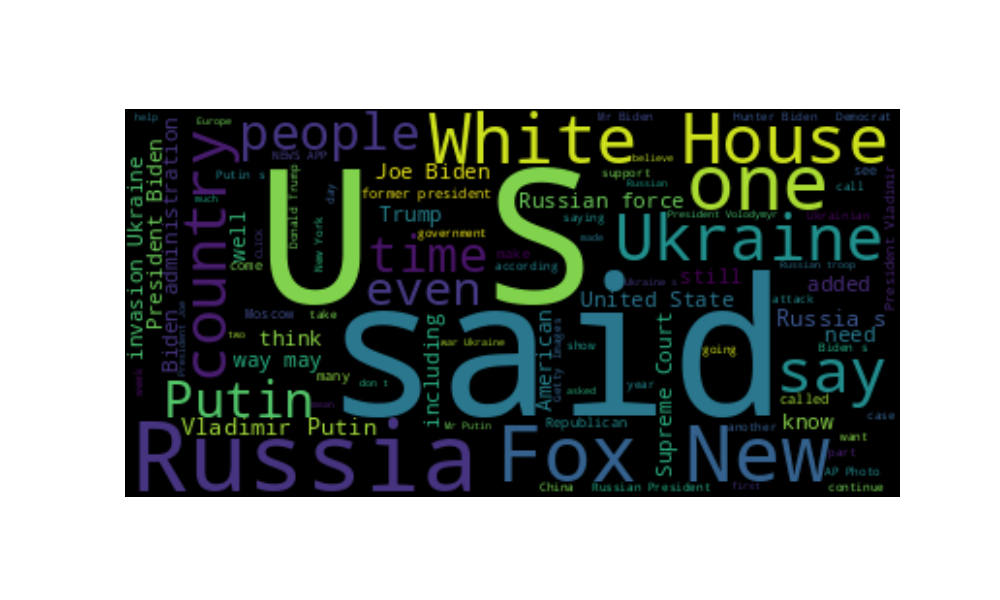
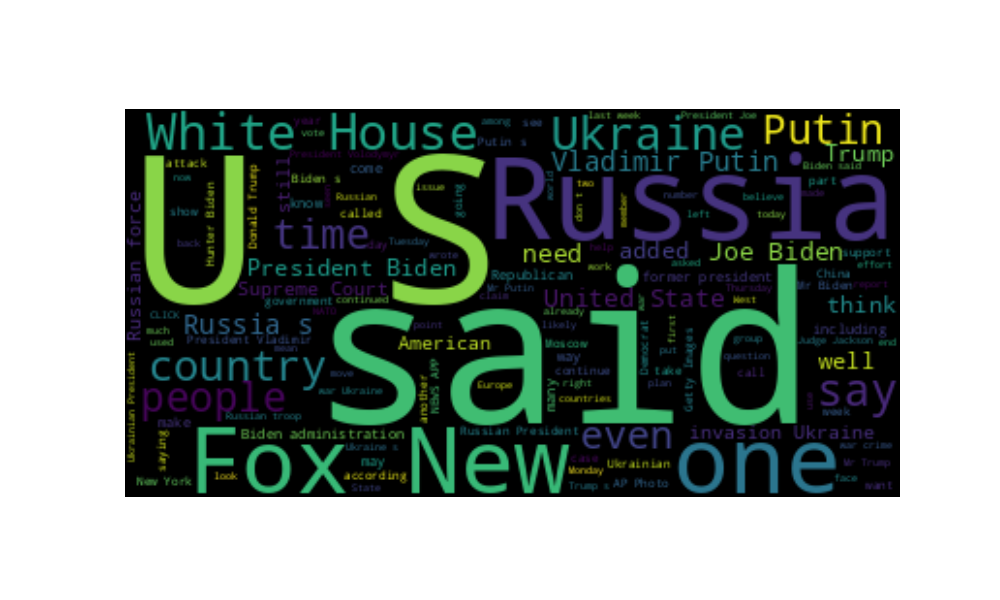
Added code for reddit

Changed region(s): [[0.124, 0.18, 0.899, 0.84]]

diff --git a/reddit.py b/reddit.py
@@ -1,0 +1,65 @@
+from collections import Counter
+import pandas as pd
+import matplotlib.pyplot as plt
+from wordcloud import WordCloud
+import nltk
+from nltk.corpus import stopwords
+
+# Download stopwords
+nltk.download('stopwords')
+
+df_reddit = pd.read_csv('~/MultiLayrtET2_Project/Data/2_proccessed_data_and_analysis/data/selected_data/reddit/ABC/ABC_all_reddits.csv')
+
+# Display dataset information
+print(df_reddit.head())
+print(df_reddit.info())
+print(df_reddit.describe())
+
+# Replace NaNs and non-string values with empty strings
+df_reddit['content'] = df_reddit['content'].fillna('').astype(str)
+
+# Define a function to preprocess text by removing stopwords
+stop_words = set(stopwords.words('english'))
+
+def preprocess_text(text):
+    words = text.split()
+    words = [word for word in words if word.lower() not in stop_words]
+    return ' '.join(words)
+
+# Apply preprocessing to the 'content' column
+df_reddit['content'] = df_reddit['content'].apply(preprocess_text)
+
+# Concatenate all text data
+all_text = ' '.join(df_reddit['content'])
+
+# Tokenize words
+words = all_text.split()
+
+# Count word frequencies
+word_freq = Counter(words)
+
+# Convert to DataFrame for visualization
+word_freq_df = pd.DataFrame(word_freq.items(), columns=['word', 'frequency'])
+
+# Plot 20 most common words
+plt.figure(figsize=(10, 6))
+word_freq_df.nlargest(20, 'frequency').plot(kind='bar', x='word', y='frequency', title='20 Most Common Words')
+plt.savefig('reddit/20_most_common_words.png')
+plt.close()
+
+# Word Cloud
+wordcloud = WordCloud().generate(all_text)
+plt.figure(figsize=(10, 6))
+plt.imshow(wordcloud, interpolation='bilinear')
+plt.axis('off')
+plt.savefig('reddit/wordcloud.png')
+plt.close()
+
+# Document Length Analysis
+df_reddit['text_length'] = df_reddit['content'].apply(len)
+
+# Plot distribution of text lengths
+plt.figure(figsize=(10, 6))
+df_reddit['text_length'].plot(kind='hist', bins=50, title='Distribution of Text Lengths')
+plt.savefig('reddit/text_length_distribution.png')
+plt.close()
